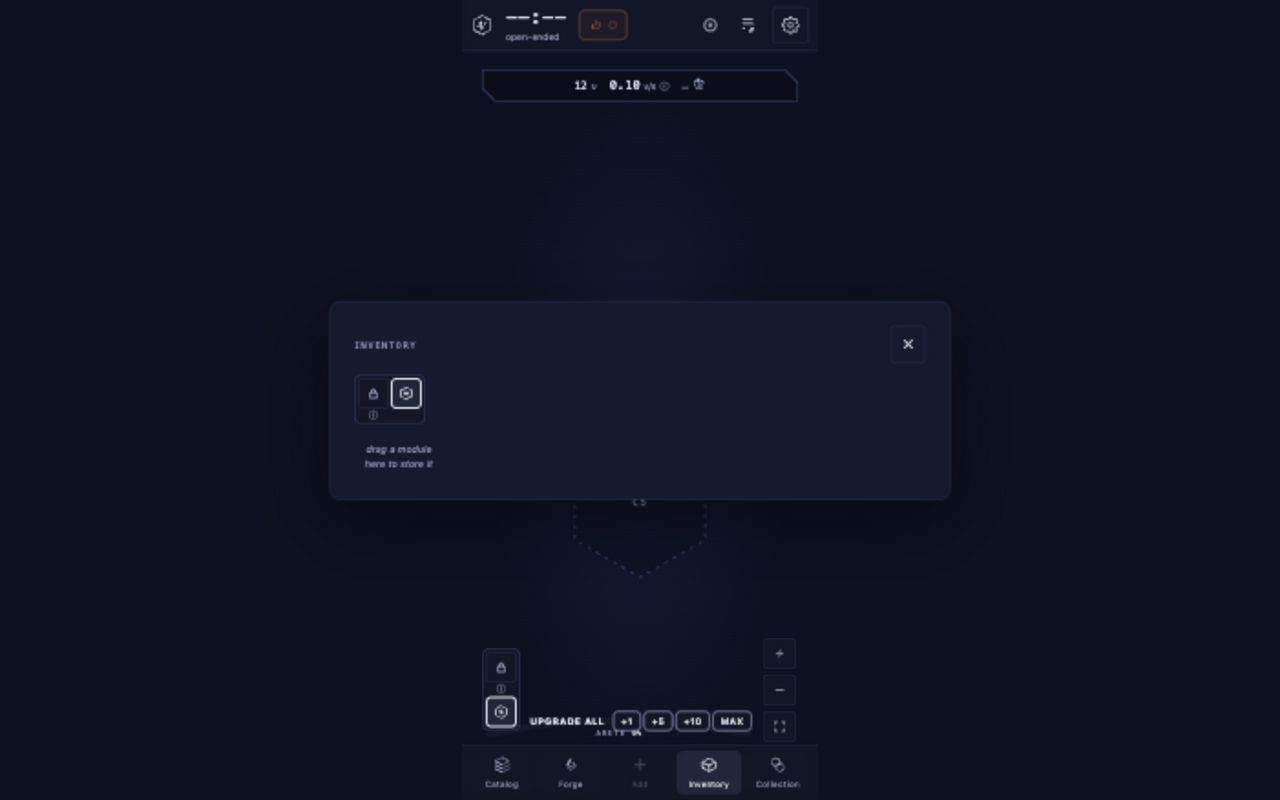
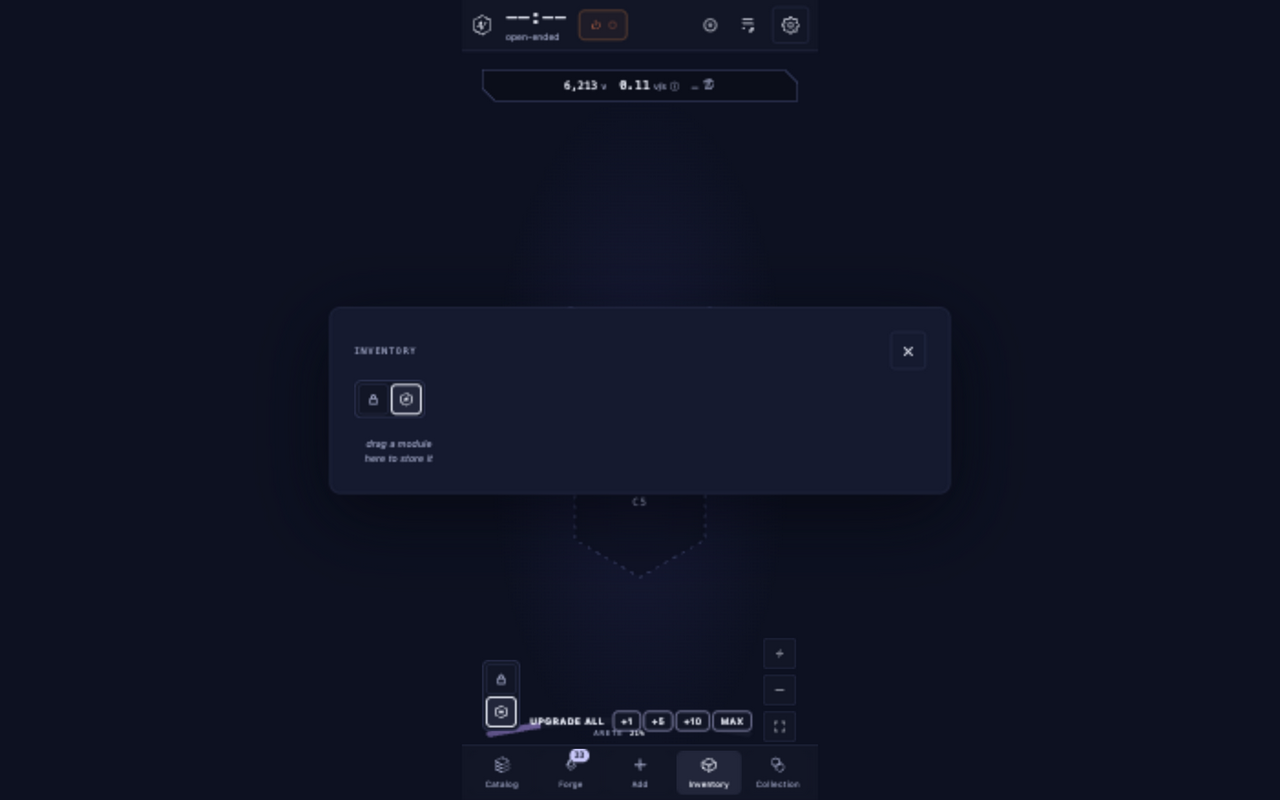
Cut the layer legend's locked ⓘ disclosure; the symbol's tooltip carries it (#314)

diff --git a/src/ui/mutators.ts b/src/ui/mutators.ts
@@ -167,10 +167,12 @@ export function mutatorSlotPrice(state: GameState): number {
    State grammar (instrument standards): the selected face wears the firm
    inset marker — readable without color; locked wears the muted outline.
    Every symbol carries an accessible name and a native tooltip; the
-   locked face's mechanics ride the ⓘ disclosure beside it. Order (issue
-   #314): wherever modules and mutators co-list, mutators lead — the one
-   builder keeps every switch in that order, and native buttons tab in
-   DOM order, so sight and keyboard agree. */
+   locked face's mechanics ride its own tooltip — no ⓘ disclosure beside
+   it (issue #314 review: the doctrine cuts a disclosure that would
+   restate the tooltip). Order (issue #314): wherever modules and
+   mutators co-list, mutators lead — the one builder keeps every switch
+   in that order, and native buttons tab in DOM order, so sight and
+   keyboard agree. */
 
 export function layerLegendActiveFace(app: App): "modules" | "mutators" {
   return app.ui.detail ? app.ui.detail.face : app.ui.mutLayer;
@@ -182,7 +184,7 @@ export function layerLegendActiveFace(app: App): "modules" | "mutators" {
 export const LAYER_MODULES_SVG = `<svg viewBox="0 0 24 24" aria-hidden="true" fill="none" stroke="currentColor" stroke-width="1.6" stroke-linejoin="round"><path d="M12 2.6 20.2 7.3v9.4L12 21.4 3.8 16.7V7.3Z"/><path d="M12 8.2v7.6M8.4 10.1l7.2 3.8M15.6 10.1l-7.2 3.8"/></svg>`;
 export const LAYER_MUTATORS_SVG = `<svg viewBox="0 0 24 24" aria-hidden="true" fill="none" stroke="currentColor" stroke-width="1.6" stroke-linejoin="round"><path d="M12 2.5 20 8l-3.2 13H7.2L4 8l8-5.5Z"/><path d="M12 2.5 9.4 21M12 2.5l2.6 18.5M4.6 8.4h14.8"/></svg>`;
 
-export function layerLegendHtml(app: App, tipId = "legend-mutator-entry"): string {
+export function layerLegendHtml(app: App): string {
   const { state } = app;
   const active = layerLegendActiveFace(app);
   const locked = !state.catalogEntryOwned;
@@ -190,7 +192,7 @@ export function layerLegendHtml(app: App, tipId = "legend-mutator-entry"): strin
   // One mark per state: the padlock stands for the locked layer, the
   // arete register for the unlocked one — never both at once. Mutators
   // lead the pair (instrument standards, issue #314).
-  return `<span class="legend-entry${locked ? " locked" : ""}"><button class="legend-symbol${mutatorsSelected ? " active" : ""}${locked ? " locked" : ""}" data-legend-layer="mutators" aria-pressed="${mutatorsSelected}" aria-label="${locked ? "Mutators layer — locked; open Catalog entry" : "Mutators layer"}" title="${locked ? "Mutators — locked; unlocks with the Mutator entry" : "Mutators — the slots over the modules"}">${locked ? LOCK_MARK : LAYER_MUTATORS_SVG}</button>${locked ? `<span class="inst-tip legend-entry-tip"><button class="inst-tip-trigger" type="button" aria-expanded="false" aria-describedby="${tipId}" aria-label="About unlocking Mutators">ⓘ</button><span class="inst-tip-body" id="${tipId}" role="tooltip">Unlocks with the Mutator entry</span></span>` : ""}</span>
+  return `<button class="legend-symbol${mutatorsSelected ? " active" : ""}${locked ? " locked" : ""}" data-legend-layer="mutators" aria-pressed="${mutatorsSelected}" aria-label="${locked ? "Mutators layer — locked; open Catalog entry" : "Mutators layer"}" title="${locked ? "Mutators — locked; unlocks with the Mutator entry" : "Mutators — the slots over the modules"}">${locked ? LOCK_MARK : LAYER_MUTATORS_SVG}</button>
     <button class="legend-symbol${active === "modules" ? " active" : ""}" data-legend-layer="modules" aria-pressed="${active === "modules"}" aria-label="Modules layer" title="Modules — the production grid">${LAYER_MODULES_SVG}</button>`;
 }
 

diff --git a/src/ui/mutators.test.ts b/src/ui/mutators.test.ts
@@ -71,31 +71,19 @@ beforeEach(() => {
 afterEach(() => fixture.release());
 
 describe("the vertical layer legend (issue #295)", () => {
-  it("the locked symbol's mechanics open by focus and tap on strip and sheet; Escape and tap-away dismiss without entering", () => {
-    const checkDisclosure = (host: HTMLElement) => {
-      const trigger = host.querySelector<HTMLButtonElement>(".legend-entry-tip .inst-tip-trigger")!;
-      const body = () => document.getElementById(trigger.getAttribute("aria-describedby")!)!;
-      trigger.focus();
-      expect(body().classList.contains("inst-show")).toBe(true);
-      document.dispatchEvent(new KeyboardEvent("keydown", { key: "Escape", bubbles: true }));
-      expect(body().classList.contains("inst-show")).toBe(false);
-      trigger.click();
-      expect(trigger.getAttribute("aria-expanded")).toBe("true");
-      expect(body().classList.contains("inst-show")).toBe(true);
-      document.body.click();
-      expect(body().classList.contains("inst-show")).toBe(false);
-      expect(trigger.getAttribute("aria-expanded")).toBe("false");
-      expect(app.ui.mutLayer).toBe("modules");
-      // The locked symbol carries its own tooltip too (issue #295: every
-      // symbol has one); the ⓘ carries the mechanics beside it.
-      expect(host.querySelector("[data-legend-layer=mutators]")!.getAttribute("title")).toContain("locked");
+  it("the locked symbol carries its mechanics on its own tooltip — no ⓘ disclosure rides strip or sheet (issue #314 review)", () => {
+    const checkLegend = (host: HTMLElement) => {
+      // The tooltip doctrine cuts: the padlock's native title says the
+      // lock mechanic; a second disclosure would restate it.
+      expect(host.querySelector(".inst-tip-trigger")).toBeNull();
+      expect(host.querySelector("[data-legend-layer=mutators]")!.getAttribute("title")).toContain("locked; unlocks with the Mutator entry");
     };
-    checkDisclosure(document.getElementById("layer-legend")!);
+    checkLegend(document.getElementById("layer-legend")!);
     expect(app.ui.modal).toBeNull();
     app.openModal("inventory");
-    checkDisclosure(document.querySelector<HTMLElement>(".tray-switch")!);
+    checkLegend(document.querySelector<HTMLElement>(".tray-switch")!);
     expect(app.ui.modal).toBe("inventory");
-    // The action still opens the entry immediately, independently of disclosure.
+    // The click still walks to the entry screen.
     document.querySelector<HTMLButtonElement>(".tray-switch [data-legend-layer=mutators]")!.click();
     expect(app.ui.modal).toBe("catalog");
     expect(app.ui.catalogFace).toBe("arete");

diff --git a/src/ui/hexdetail.test.ts b/src/ui/hexdetail.test.ts
@@ -448,7 +448,7 @@ describe("the vertical layer legend (issue #295)", () => {
     expect(css).toMatch(/\.legend-symbol:focus-visible[^{]*\{[^}]*outline/);
   });
 
-  it("pre-entry the Mutators symbol stands locked-but-visible; its ⓘ discloses by focus and tap", () => {
+  it("pre-entry the Mutators symbol stands locked-but-visible; its own tooltip carries the lock", () => {
     app.render();
     const legend = document.getElementById("layer-legend")!;
     const mutators = legend.querySelector<HTMLButtonElement>('[data-legend-layer="mutators"]')!;
@@ -458,14 +458,11 @@ describe("the vertical layer legend (issue #295)", () => {
     expect(mutators.querySelector(".mut-tab-lock")).not.toBeNull();
     expect(mutators.querySelectorAll("svg")).toHaveLength(1);
     expect(mutators.getAttribute("aria-pressed")).toBe("false");
-    // The ⓘ trigger opens by focus…
-    const trigger = legend.querySelector<HTMLButtonElement>(".inst-tip-trigger")!;
-    trigger.focus();
-    expect(document.getElementById(trigger.getAttribute("aria-describedby")!)!.classList.contains("inst-show")).toBe(true);
-    // …dismisses by Escape without entering…
-    document.dispatchEvent(new KeyboardEvent("keydown", { key: "Escape", bubbles: true }));
-    expect(document.getElementById(trigger.getAttribute("aria-describedby")!)!.classList.contains("inst-show")).toBe(false);
-    // …and the click walks to the Catalog's ◇ entry, never flipping the mode.
+    // No ⓘ rides the legend (issue #314 review): the symbol's native
+    // tooltip says the lock mechanic, and the click walks to the
+    // Catalog's ◇ entry, never flipping the mode.
+    expect(legend.querySelector(".inst-tip-trigger")).toBeNull();
+    expect(mutators.getAttribute("title")).toContain("locked; unlocks with the Mutator entry");
     mutators.click();
     expect(app.ui.mutLayer).toBe("modules");
     expect(app.ui.modal).toBe("catalog");

diff --git a/src/ui/app.lifecycle.test.ts b/src/ui/app.lifecycle.test.ts
@@ -42,14 +42,9 @@ describe("App lifetime", () => {
     expect(vi.getTimerCount()).toBe(0);
   });
 
-  it("release cancels mode feedback and removes locked-symbol disclosure", () => {
+  it("release cancels mode feedback", () => {
     const app = fixture.boot();
-    const tip = document.querySelector<HTMLButtonElement>("#layer-legend .inst-tip-trigger")!;
-    tip.click();
-    const body = document.getElementById(tip.getAttribute("aria-describedby")!)!;
-    expect(body.parentElement).toBe(document.body);
     app.dispose();
-    expect(body.isConnected).toBe(false);
     const current = fixture.boot();
     current.state.catalogEntryOwned = true;
     current.ui.buyingCell = true;

diff --git a/src/ui/render.ts b/src/ui/render.ts
@@ -2479,7 +2479,7 @@ function renderInventorySheetModal(app: App, content: HTMLElement): void {
       }</div>`;
   content.innerHTML = `
     ${modalTop("INVENTORY", "modal-title")}
-    ${state.mode === "upgrade" ? `<div class="layer-legend tray-switch" role="group" aria-label="Tray face">${layerLegendHtml(app, "sheet-mutator-entry")}</div>` : ""}
+    ${state.mode === "upgrade" ? `<div class="layer-legend tray-switch" role="group" aria-label="Tray face">${layerLegendHtml(app)}</div>` : ""}
     ${face}`;
   content.querySelectorAll<HTMLButtonElement>("[data-inv]").forEach((button) => {
     const id = button.getAttribute("data-inv")!;

diff --git a/src/ui/style.css b/src/ui/style.css
@@ -2486,19 +2486,6 @@ body.hex-detail-open .upgrade-all {
   backdrop-filter: blur(3px);
 }
 .layer-legend[hidden] { display: none; }
-.layer-legend .legend-entry { display: inline-flex; }
-.legend-entry.locked { flex-direction: column; align-items: center; gap: 1px; }
-.legend-entry .legend-entry-tip .inst-tip-trigger {
-  width: auto;
-  height: auto;
-  padding: 1px 3px;
-  border: none;
-  background: transparent;
-  font-size: 10px;
-  line-height: 1;
-  color: var(--muted);
-  cursor: pointer;
-}
 .legend-symbol {
   width: 34px;
   height: 34px;

diff --git a/docs/evidence/314-mutators-lead/README.md b/docs/evidence/314-mutators-lead/README.md
@@ -1,9 +1,11 @@
 # Mutators lead every co-list — review evidence
 
 Source: issue #314. Captured on this branch's working tree on top of
-commit `b65e95c9519bc3be0a27f261feba016d77bc3c7b`. Launched this
-checkout with `npm run dev`; the provenance endpoint's `worktree` and
-`commit` matched `git rev-parse` in this checkout before every capture.
+commit `36dec6c66d00fb64c3e21c3b34926674613cc111` plus the follow-up
+ⓘ removal (issue #314 review decision, same working tree). Launched
+this checkout with `npm run dev`; the provenance endpoint's `worktree`
+and `commit` matched `git rev-parse` in this checkout before every
+capture.
 
 ## The change
 
@@ -18,19 +20,25 @@ aria strings ride their own symbols and are unchanged. The catalog
 keeps `ν nous` first (the recorded resource-order exception), the
 default layer stays modules, and no tray content reordered.
 
+Follow-up (same issue, review decision): the locked symbol's ⓘ
+disclosure is cut — the padlock's own native tooltip ("Mutators —
+locked; unlocks with the Mutator entry") carries the mechanic, per the
+tooltip doctrine (a disclosure that restates the tooltip goes). The
+legend is two symbols, nothing else; the strip and sheet carry no
+`.inst-tip` at all.
+
 ## Desktop (1402×877 viewport, screenshot pipeline crops to 1280)
 
 - [Board legend](desktop-legend.png): the strip at the board's left
-  edge — the locked Mutators symbol (padlock) on top, the ⓘ beneath it,
-  the Modules symbol last. Verified live: `#layer-legend`'s
-  `[data-legend-layer]` buttons read `["mutators", "modules"]`.
-- [Disclosure by keyboard focus](desktop-legend-focus-tooltip.png):
-  focusing the ⓘ opens "Unlocks with the Mutator entry"; Escape
-  dismissed it (verified live in the same session).
+  edge — the locked Mutators symbol (padlock) on top, the Modules
+  symbol beneath, no ⓘ between or beside. Verified live:
+  `#layer-legend`'s `[data-legend-layer]` buttons read
+  `["mutators", "modules"]`, zero `.inst-tip-trigger`s.
 - **Tab walk** (no screenshot — order is the evidence): Tab from the
-  Mutators symbol landed on "About unlocking Mutators" ⓘ, then on
-  "Modules layer" — keyboard order equals visual order, read from
-  `document.activeElement` after real Tab presses.
+  Mutators symbol landed directly on "Modules layer" — keyboard order
+  equals visual order, read from `document.activeElement` after a real
+  Tab press. The locked symbol's title was read live:
+  "Mutators — locked; unlocks with the Mutator entry".
 
 ## Phone (~390px)
 
@@ -42,33 +50,33 @@ modal layer, which stays on `@media` by design and therefore keeps the
 desktop frame in the sheet capture (recorded under unavailable checks).
 
 - [Board legend](phone-legend.png): the strip re-pinned above the thumb
-  bar, still Mutators (padlock) → ⓘ → Modules.
+  bar — padlock (Mutators) then Modules, no ⓘ.
 - [Sheet switch](phone-sheet-switch.png): the inventory sheet's
-  `.tray-switch` — locked Mutators symbol leftmost, ⓘ beneath, Modules
-  to its right; the same two symbols the board strip hosts, read
-  `["mutators", "modules"]` live.
-- **Touch disclosure**: tapping the sheet switch's ⓘ opened the
-  "Unlocks with the Mutator entry" body (`aria-expanded` true), a tap
-  away dismissed it (`aria-expanded` false) — verified live with
-  synthesized pointer events, not a physical touch pass.
+  `.tray-switch` — locked Mutators symbol leftmost, Modules to its
+  right; the same two symbols the board strip hosts, read
+  `["mutators", "modules"]` live, zero `.inst-tip-trigger`s.
 
 ## Non-color state distinctions
 
 Unchanged by the reorder and visible in the captures: selected layer =
-firm inset marker; locked layer = muted outline + padlock mark; the ⓘ
-disclosure is present in both states. The strip carries no animation or
-glow — nothing to guard under reduced motion (source-verified: no
-`animation`/`transition` on `.layer-legend`, `.legend-symbol`,
-`.legend-entry`); motion on this surface remains the hover background
-swap only.
+firm inset marker; locked layer = muted outline + padlock mark. The
+strip carries no animation or glow — nothing to guard under reduced
+motion (source-verified: no `animation`/`transition` on
+`.layer-legend`, `.legend-symbol`); motion on this surface remains the
+hover background swap only. The locked mechanic reads from the title
+tooltip on hover/focus of the symbol itself; the ⓘ's former
+focus-open/tap-open paths are gone with it (pinned by tests).
 
 ## Automated checks
 
 At capture time: `npm run check` clean; full suite 61 files / 1265
 tests green (2 skipped). mutators.test.ts pins the new order ("mutators
-lead every co-list"): `["mutators", "modules"]` on the strip pre-entry
-and in the mutator era, plus the sheet's `.tray-switch`, with the
-no-`tabindex` assertion keeping tab order pinned to DOM order.
+lead every co-list") and the ⓘ-less contract ("the locked symbol
+carries its mechanics on its own tooltip — no ⓘ disclosure rides strip
+or sheet"): `["mutators", "modules"]` on the strip pre-entry and in the
+mutator era, plus the sheet's `.tray-switch`, the no-`tabindex`
+assertion keeping tab order pinned to DOM order, and the title
+assertion keeping the lock mechanic on the symbol.
 
 ## Unavailable checks
 
@@ -77,8 +85,13 @@ no-`tabindex` assertion keeping tab order pinned to DOM order.
   frame in [phone-sheet-switch.png] by design (viewport media query).
   The switch and its order are the same objects the phone frame hosts
   (pinned by app.phone.test.ts).
-- Physical touch input — the tap paths were exercised with synthesized
-  pointer events and verified live; not claimed as a physical pass.
+- Native-title rendering pass — the browser's hover tooltip for the
+  `title` attribute is OS chrome, not page content; the attribute's
+  presence and copy were verified live and pinned by tests instead.
+- Physical touch input — the sheet paths were exercised with
+  synthesized pointer events in earlier passes; this pass changes no
+  touch behavior (the removed ⓘ was its only touch target besides the
+  two symbols).
 - Greyscale rendering pass (no filter emulation) — non-color state is
   structural (inset marker, padlock, words) and pinned in the
   stylesheet.
